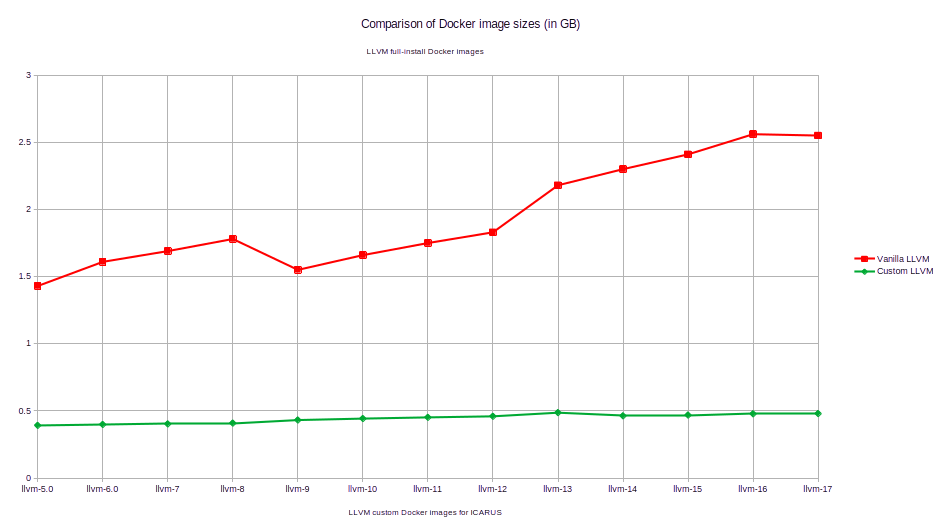
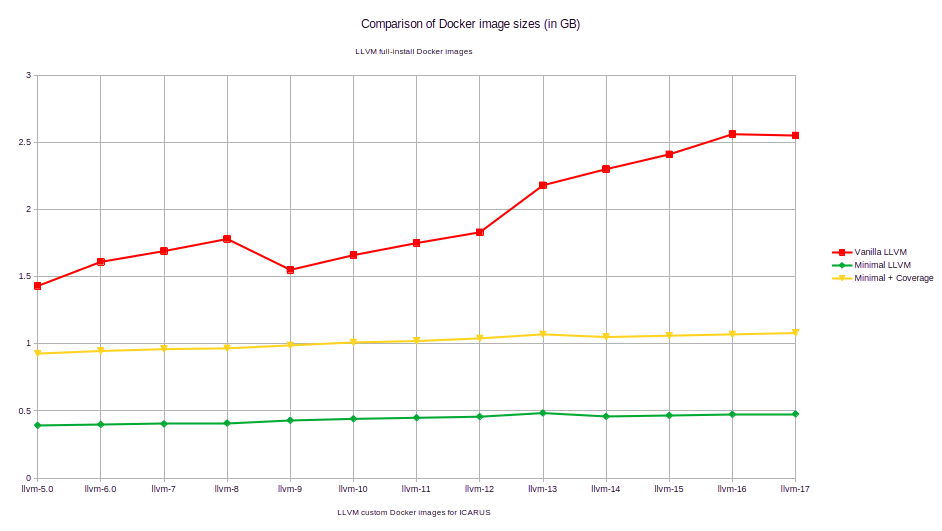
Fix Docker and Clang workflow for sharing container, build artifacts

diff --git a/docker/README.md b/docker/README.md
@@ -31,10 +31,23 @@ There are two main reasons for providing Docker images with a custom LLVM instal
 
 ## Docker image size comparison
 
-Below is a graph which displays the Docker image sizes for a full LLVM installation (red) and a custom LLVM installation
-based on the required libraries for the **icarus** project.
+Below is a graph which displays the Docker image sizes for a full LLVM installation (red) building only the `clang` and
+some of the `clang-tools-extra` targets, and two custom LLVM builds based on the required libraries for the **icarus**
+project. The first one (green) depicts the size of the uncompressed Docker image with only the required LLVM libraries
+installed, while the second (yellow) also includes the [compiler-rt Runtime Library](https://compiler-rt.llvm.org/) as well as additional system
+and pip3 packages required for the code coverage tool `gcovr`.
 
 ![Docker image size comparison](docker-image-comparison.png)
 
-The custom LLVM installation required for the **icarus** project only require about 3 to 5 times less memory compared to
-the full LLVM installation.
+The custom LLVM builds required for the **icarus** project only require between 20% and 50% of space compared to
+the full LLVM installation. In addition, we now also have everything present for additional analysis of **icarus**,
+such as a code coverage tool as well as a 
+
+## Full LLVM installation
+
+Since we also want to have code coverage reports using the [compiler-rt Runtime Library](https://compiler-rt.llvm.org/),
+we need a full LLVM installation. This is because the runtime library is built using `llvm-config`, which collects the
+previously built libraries. If a single library is not installed on the system, the build process fails.
+
+It might be possible to make `llvm-config` think that all installed libraries are in fact thecomplete collection of LLVM
+libraries that exist.
